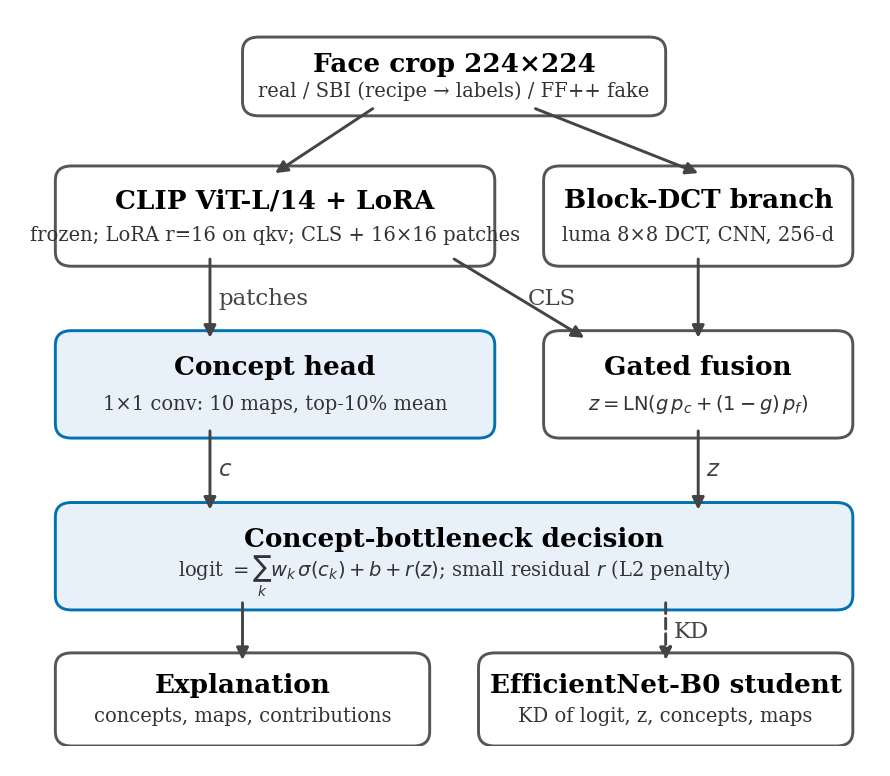
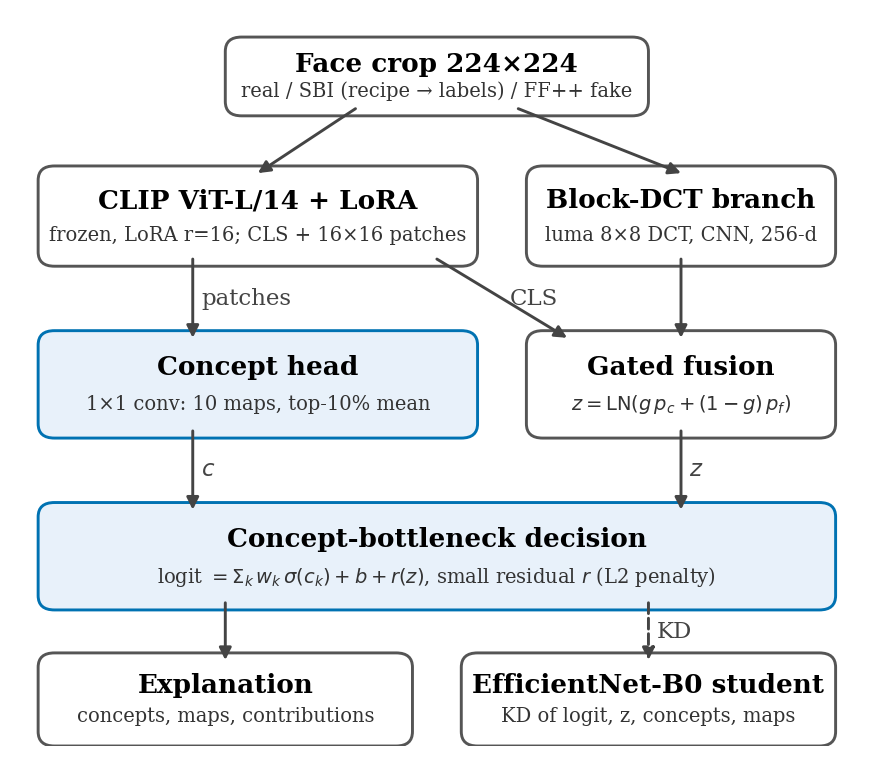
Paper draft v0.2: fix title break, split long equations, full-width ablation table, tighter figure labels, arrow symbol

diff --git a/paper/main.tex b/paper/main.tex
@@ -16,7 +16,7 @@
 
 \begin{document}
 
-\title{Recipe-Supervised Concepts for Robust and Explainable\\ Deepfake Detection: A Leak-Free Study}
+\title{Recipe-Supervised Concepts for Robust and Explainable Deepfake Detection: A Leak-Free Study}
 
 \author{
 \IEEEauthorblockN{Charan L, Deepak S N, Samrudh N Shindhe, Samarth Gowda G M, and Jyothi R}
@@ -203,10 +203,11 @@ concept head does not see, reach the decision; an L2 penalty keeps it small.
 \subsection{Training objective}
 Each batch mixes real faces, SBI fakes and FF++ fakes (sampling weights 3:2:1:1:1 for real, SBI, Deepfakes,
 Face2Face, FaceSwap). With $\mathcal{B}$ the binary cross-entropy,
-\begin{equation}
-\mathcal{L} = \mathcal{B}(\ell,y) + \lambda_c\,\mathcal{B}_{\mathrm{SBI}}(c,\hat c)
-+ \lambda_m\,\mathcal{B}_{\mathrm{SBI}}(M,\hat M) + \lambda_w\|w\|_1 + \lambda_r\,\overline{r(z)^2},
-\end{equation}
+\begin{align}
+\mathcal{L} = {} & \mathcal{B}(\ell,y) + \lambda_c\,\mathcal{B}_{\mathrm{SBI}}(c,\hat c)
++ \lambda_m\,\mathcal{B}_{\mathrm{SBI}}(M,\hat M) \nonumber\\
+& + \lambda_w\|w\|_1 + \lambda_r\,\overline{r(z)^2},
+\end{align}
 where concept and map terms apply only to SBI images (FF++ fakes have no recipe), $M$ is the concept-map output
 compared with the boundary map, $\lambda_c=\lambda_m=0.5$, $\lambda_w=10^{-4}$ and $\lambda_r=10^{-2}$.
 We train with AdamW~\cite{adamw} (weight decay 0.05; learning rates $2\times10^{-4}$ for LoRA, $10^{-3}$ for heads,
@@ -222,10 +223,10 @@ video-level test encoding; CRF 40 is never used in training.
 The student is an EfficientNet-B0~\cite{efficientnet} with the same concept head on its 7$\times$7 feature grid. It
 trains on degraded frames (clean 0.2, JPEG q20--60 0.35, downscale 0.25--0.5 0.25, both 0.2) while reading the
 teacher's outputs on the clean frame from a cache:
-\begin{equation}
-\mathcal{L}_S = 0.5\,\mathcal{B} + 0.5\,T^2\mathrm{KL}_T + \|z_S-z_T\|^2 + 0.5\,\mathcal{B}(c_S,\sigma(c_T))
-+ 0.5\,\|\sigma(M_S)-\sigma(M_T)\|^2,
-\end{equation}
+\begin{align}
+\mathcal{L}_S = {} & 0.5\,\mathcal{B} + 0.5\,T^2\mathrm{KL}_T + \|z_S-z_T\|^2 \nonumber\\
+& + 0.5\,\mathcal{B}(c_S,\sigma(c_T)) + 0.5\,\|\sigma(M_S)-\sigma(M_T)\|^2,
+\end{align}
 with temperature $T=4$. S0 is the same student without a teacher; S3h adds single-frame H.264 to a quarter of the
 degraded inputs.
 
@@ -308,7 +309,7 @@ the irregular-boundary concept c10 is not (0.515).
 \subsection{Calibration}
 Table~\ref{tab:ece} reports the expected calibration error~\cite{guo} of the raw probabilities. On Celeb-DF, B1 and
 C1 are badly over- or under-confident (0.578, 0.527), while F1 reaches 0.161 and F1h 0.059. Temperature scaling fitted on
-FF++ validation helps little (B1 on Celeb-DF: 0.578$	o$0.489), because FF++ validation is almost perfectly
+FF++ validation helps little (B1 on Celeb-DF: 0.578$\to$0.489), because FF++ validation is almost perfectly
 separated. ECE measures whether probabilities can be read
 as frequencies, not ranking quality: R2 is well calibrated but ranks poorly.
 

diff --git a/paper/make_paper_figs.py b/paper/make_paper_figs.py
@@ -72,12 +72,12 @@ def architecture():
     fig, ax = plt.subplots(figsize=(3.5, 3.1))
     ax.set_xlim(0, 1); ax.set_ylim(0, 1); ax.axis("off")
     box(ax, 0.25, 0.89, 0.50, 0.09, "Face crop 224×224", "real / SBI (recipe → labels) / FF++ fake")
-    box(ax, 0.02, 0.68, 0.52, 0.12, "CLIP ViT-L/14 + LoRA", "frozen; LoRA r=16 on qkv; CLS + 16×16 patches")
+    box(ax, 0.02, 0.68, 0.52, 0.12, "CLIP ViT-L/14 + LoRA", "frozen, LoRA r=16; CLS + 16×16 patches")
     box(ax, 0.62, 0.68, 0.36, 0.12, "Block-DCT branch", "luma 8×8 DCT, CNN, 256-d")
     box(ax, 0.02, 0.44, 0.52, 0.13, "Concept head", "1×1 conv: 10 maps, top-10% mean", fc="#E8F1FA", ec="#0072B2")
     box(ax, 0.62, 0.44, 0.36, 0.13, "Gated fusion", r"$z=\mathrm{LN}(g\,p_c+(1-g)\,p_f)$")
     box(ax, 0.02, 0.20, 0.96, 0.13, "Concept-bottleneck decision",
-        r"logit $=\sum_k w_k\,\sigma(c_k)+b+r(z)$; small residual $r$ (L2 penalty)", fc="#E8F1FA", ec="#0072B2")
+        r"logit $= \Sigma_k\, w_k\,\sigma(c_k) + b + r(z)$, small residual $r$ (L2 penalty)", fc="#E8F1FA", ec="#0072B2")
     box(ax, 0.02, 0.01, 0.44, 0.11, "Explanation", "concepts, maps, contributions")
     box(ax, 0.54, 0.01, 0.44, 0.11, "EfficientNet-B0 student", "KD of logit, z, concepts, maps")
     arrow(ax, (0.40, 0.89), (0.28, 0.80)); arrow(ax, (0.60, 0.89), (0.80, 0.80))

diff --git a/paper/make_paper_tables.py b/paper/make_paper_tables.py
@@ -95,12 +95,12 @@ def ablation():
         r = p[(p.comparison == comp) & (p.split == "cross")].iloc[0]
         rows.append(f"{comp.replace(' - ', ' vs.\\ ')} & {what} & " + " & ".join(cells) + f" & [{mm(r.ci_low)}, {mm(r.ci_high)}] \\\\")
     write("tab_ablation", "\n".join([
-        "\\begin{table}[t]", "\\centering", "\\footnotesize", "\\setlength{\\tabcolsep}{3pt}",
+        "\\begin{table*}[t]", "\\centering", "\\footnotesize",
         "\\caption{Paired change in seed-mean video AUC (later minus earlier model, 3 seeds each). $^{*}$: the 95\\% "
         "paired bootstrap CI excludes zero. CI shown for the cross-dataset column.}",
         "\\label{tab:ablation}", "\\begin{tabular}{llcccc}", "\\toprule",
-        "Pair & Change & DFD & CDF & Cross & Cross CI \\\\", "\\midrule", *rows[:5], "\\midrule", *rows[5:],
-        "\\bottomrule", "\\end{tabular}", "\\end{table}", ""]))
+        "Pair & Change & DFD & Celeb-DF & Cross & Cross 95\\% CI \\\\", "\\midrule", *rows[:5], "\\midrule", *rows[5:],
+        "\\bottomrule", "\\end{tabular}", "\\end{table*}", ""]))
 
 
 def robustness(d):

diff --git a/paper/tables/tab_ablation.tex b/paper/tables/tab_ablation.tex
@@ -1,12 +1,11 @@
-\begin{table}[t]
+\begin{table*}[t]
 \centering
 \footnotesize
-\setlength{\tabcolsep}{3pt}
 \caption{Paired change in seed-mean video AUC (later minus earlier model, 3 seeds each). $^{*}$: the 95\% paired bootstrap CI excludes zero. CI shown for the cross-dataset column.}
 \label{tab:ablation}
 \begin{tabular}{llcccc}
 \toprule
-Pair & Change & DFD & CDF & Cross & Cross CI \\
+Pair & Change & DFD & Celeb-DF & Cross & Cross 95\% CI \\
 \midrule
 C2 vs.\ C1 & + SBI pseudo-fakes & +0.028$^{*}$ & $-$0.023 & +0.003 & [$-$0.014, +0.019] \\
 G1 vs.\ C2 & + concept bottleneck & $-$0.004$^{*}$ & +0.022$^{*}$ & +0.009$^{*}$ & [+0.004, +0.014] \\
@@ -19,4 +18,4 @@ F1 vs.\ C1 & all GRACE additions & +0.019$^{*}$ & $-$0.002 & +0.009 & [$-$0.007,
 F1h vs.\ F1 & + H.264 augmentation & $-$0.011$^{*}$ & +0.008 & $-$0.002 & [$-$0.008, +0.004] \\
 \bottomrule
 \end{tabular}
-\end{table}
+\end{table*}
